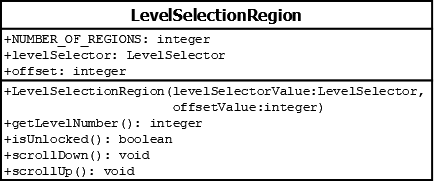
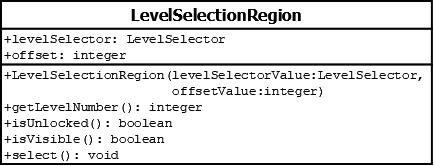
Update Level Selection model with ability to select levels. Also update scrolling implementation.

Changed region(s): [[0.0, 0.0, 1.0, 1.0]]

diff --git a/models/level/selection/LevelSelector.md b/models/level/selection/LevelSelector.md
@@ -9,15 +9,22 @@ Manages the `Level` objects in the context of which one is selected, which ones 
 </center>
 
 ## Attributes
-* **levels** (Level[]): The levels in the game
-* **regionIndex** (integer): the index of the `levels` collection attribute that `LevelRegion` objects should start getting `Level` objects from.
+* **baseIndex** (integer): the index of the `levels` collection attribute that `LevelRegion` objects should start getting `Level` objects from.
+* **levels** (Level[]): The levels in the game.
+* **selectedIndex** (integer): the index of the `levels` collection attribute for the `Level` that the player has selected. If it is `-1`, then no `Level` is selected.
 * **unlockedIndex** (integer): the index of the `levels` collection of the maximum level that the player has unlocked. All levels before that index are also considered to be unlocked. All levels after that index are considered to be locked.
 
 ## Constructors
-* **LevelSelector(levelsValue (Level[]), regionIndexValue (integer), unlockedIndexValue (integer))**: constructs a `LevelSelector` object with the `levels` attribute set to `levelsValue`, and the `regionIndex` attribute set to `regionIndexValue` (which has a default value of `0`), and the `unlockedIndex` attribute set to `unlockedIndexValue` (which has a default value of `0`).
+* **LevelSelector(levelsValue (Level[]), baseIndexValue (integer), selectedIndexValue (integer), unlockedIndexValue (integer))**: constructs a `LevelSelector` object with the `levels` attribute set to `levelsValue`, the `baseIndex` attribute set to `baseIndexValue` (which has a default value of `0`), the `selectedIndex` attribute set to `selectedIndexValue` (which has a default value of `-1`), and the `unlockedIndex` attribute set to `unlockedIndexValue` (which has a default value of `0`).
 
 ## Methods
-* **getRegionIndex()** (integer): returns the value of the `regionIndex` attribute.
-* **getRegionLevelNumber(offset (integer))** (Level): returns `this.levels[this.regionIndex + offset].getNumber()`. The `offset` parameter has a default value of `0`
-* **isRegionLevelUnlocked(offset (integer))** (boolean): returns `true` if `this.regionIndex + offset <= this.unlockedIndex`; else returns `false`.
-* **moveRegionIndex(indexDisplacement (integer))** (void): changes `regionIndex` by the passed in `indexDisplacement` value. If `indexDisplacement` is positive, then `regionIndex` is increased; otherwise it is decreased.
+* **getBaseIndex()** (integer): returns `this.baseIndex`.
+* **getLevelNumber(offset (integer))** (Level): returns `this.levels[this.baseIndex + offset].getNumber()`. The `offset` parameter has a default value of `0`.
+* **getSelectedIndex()** (integer): returns `this.selectedIndex`.
+* **getSelectedLevel()** (Level): returns `this.levels[this.selectedIndex]`; throws an exception if `this.selectedIndex` is out of bounds or is `-1`.
+* **isLevelSelected()**: returns `true` if `this.selectedIndex` is not `-1`; `false` otherwise.
+* **isLevelUnlocked(offset (integer))** (boolean): returns `true` if `this.baseIndex + offset <= this.unlockedIndex`; else returns `false`.
+* **isOffsetValid(offset (integer))** (boolean): returns `true` if `0 <= this.baseIndex + offset < this.levels.length`; else returns `false`.
+* **moveBaseIndex(indexDisplacement (integer))** (void): changes `baseIndex` by the passed in `indexDisplacement` value. If `indexDisplacement` is positive, then `baseIndex` is increased; otherwise it is decreased.
+* **selectIndex(offset (integer))** (void): sets `this.selectedIndex` equal to `this.baseIndex + offset`. The `offset` parameter has a default value of `0`.
+* **unselectIndex()** (void): sets `this.selectedIndex` equal to `-1`.

diff --git a/models/level/selection/LevelSelectionRegion.md b/models/level/selection/LevelSelectionRegion.md
@@ -1,15 +1,12 @@
 # LevelSelectionRegion
 
 ## Summary
-Works with the `LevelSelector` object in order to get the appropriate model values to the `TowerRegionView`. Implements the `TowerRegionModelInterface`
+Works with the `LevelSelector` object in order to get the appropriate model values to the `LevelRegionView`. Implements `LevelRegionInterface`
 
 ## Diagram
 <center>
 !["LevelSelectionRegion UML Diagram"](../../../images/models/level/selection/LevelSelectionRegion.png "LevelSelectionRegion UML Diagram")
 </center>
-
-## Constants
-* **NUMBER_OF_REGIONS** (integer): the number of region objects that are being used in the game. Used for scrolling.
 
 ## Attributes
 * **levelSelector** (LevelSelector): a reference to `LevelSelector` which manages the information about whether the `Level` corresponding to this region is locked and what its number is.
@@ -19,7 +16,7 @@ Works with the `LevelSelector` object in order to get the appropriate model valu
 * **LevelSelectionRegion(levelSelectorValue (LevelSelector), offsetValue (integer))**: constructs a `LevelSelectionRegion` object with the `levelSelector` attribute set to `levelSelectorValue`, and the `offset` attribute set to `offsetValue`.
 
 ## Methods
-* **getLevelNumber()** (integer): returns the level number corresponding to this region. This is computed using `this.levelSelector.getRegionLevelNumber(this.offset)`.
-* **isUnlocked()** (boolean): returns `true` if this region has been unlocked by the player; else returns `false`. This is computed using `this.levelSelector.isRegionLevelUnlocked(this.offset)`.
-* **scrollDown()** (void): Calls `this.levelSelector.moveRegionIndex(-this.NUMBER_OF_REGIONS)` in order to display the previous sequence of `Levels`.
-* **scrollUp()** (void): Calls `this.levelSelector.moveRegionIndex(this.NUMBER_OF_REGIONS)` in order to display the next sequence of `Levels`.
+* **getLevelNumber()** (integer): returns the level number corresponding to this region. This is computed using `this.levelSelector.getLevelNumber(this.offset)`.
+* **isUnlocked()** (boolean): returns `true` if this region has been unlocked by the player; else returns `false`. This is computed using `this.levelSelector.isLevelUnlocked(this.offset)`.
+* **isVisible()** (boolean): returns `true` if `this.levelSelector.isOffsetValid(this.offset)`; else returns `false`.
+* **select()** (void): calls `this.levelSelector.selectIndex(this.offset)` in order to select the `Level` associated with this region.

diff --git a/views/region/TowerRegionView.md b/views/region/TowerRegionView.md
@@ -1,21 +1,21 @@
-# TowerRegionView
+# LevelRegionView
 
 ## Summary
 Represents one of the seven parts of the tower to draw.
 
 ## Diagram
 <center>
-!["TowerRegionView UML Diagram"](../../images/views/region/TowerRegionView.png "TowerRegionView UML Diagram")
+!["LevelRegionView UML Diagram"](../../images/views/region/LevelRegionView.png "LevelRegionView UML Diagram")
 </center>
 
 ## Attributes
-* **model** (TowerRegionModelInterface): the model object to use for determining what the view displays and how it displays things.
-* **background** (TowerRegionViewBackground): the background sprite upon which the button will be drawn.
-* **button** (TowerRegionViewButton): the button associated with selecting a level or scrolling up / down.
-* **buttonText** (TowerRegionViewButtonText): the text to display on the button.
+* **model** (LevelRegionInterface): the model object to use for determining what the view displays and how it displays things.
+* **background** (LevelRegionViewBackground): the background sprite upon which the button will be drawn.
+* **button** (LevelRegionViewButton): the button associated with selecting a level or scrolling up / down.
+* **buttonText** (LevelRegionViewButtonText): the text to display on the button.
 
 ## Constructors
-* **TowerRegionView(model (TowerRegionModelInterface), backgroundValue (TowerRegionViewBackground), buttonValue (TowerRegionViewButton), buttonTextValue (TowerRegionViewButtonText))**: constructs a **TowerRegionView** object with the `model` attribute set to `modelValue`, the `background` attribute set to `backgroundValue`, the `button` attribute set to `buttonValue`, and the `buttonText` attribute set to `buttonTextValue`.
+* **LevelRegionView(model (LevelRegionInterface), backgroundValue (LevelRegionViewBackground), buttonValue (LevelRegionViewButton), buttonTextValue (LevelRegionViewButtonText))**: constructs a **LevelRegionView** object with the `model` attribute set to `modelValue`, the `background` attribute set to `backgroundValue`, the `button` attribute set to `buttonValue`, and the `buttonText` attribute set to `buttonTextValue`.
 
 ## Methods
 * **draw()** (void): draws the background, then draws the button, then draws the button text.

diff --git a/views/region/button-text/TowerRegionViewButtonEmptyText.md b/views/region/button-text/TowerRegionViewButtonEmptyText.md
@@ -1,17 +1,17 @@
-# TowerRegionViewButtonEmptyText
+# LevelRegionViewButtonEmptyText
 
 ## Summary
-Subclasses the TowerRegionViewButtonEmptyText class in order to override the `draw` implementation.
+Subclasses the LevelRegionViewButtonEmptyText class in order to override the `draw` implementation.
 Represents the empty text displayed on the scroll buttons drawn in a tower region.
 That is to say, scroll buttons do not have text so this class does not draw any.
 
 ## Diagram
 <center>
-!["TowerRegionViewButtonEmptyText UML Diagram"](../../../images/views/region/button-text/TowerRegionViewButtonEmptyText.png "TowerRegionViewButtonEmptyText UML Diagram")
+!["LevelRegionViewButtonEmptyText UML Diagram"](../../../images/views/region/button-text/LevelRegionViewButtonEmptyText.png "LevelRegionViewButtonEmptyText UML Diagram")
 </center>
 
 ## Constructors
-* **TowerRegionViewButtonEmptyText()**: constructs a `TowerRegionViewButtonEmptyText` object.
+* **LevelRegionViewButtonEmptyText()**: constructs a `LevelRegionViewButtonEmptyText` object.
 
 ## Methods
-* **draw(model (TowerRegionModelInterface))** (void): overridden to not draw anything.
+* **draw(model (LevelRegionInterface))** (void): overridden to not draw anything.

diff --git a/models/level/selection/LevelScrollRegion.md b/models/level/selection/LevelScrollRegion.md
@@ -1,0 +1,18 @@
+# LevelSelectionRegion
+
+## Summary
+Subclasses `LevelSelectionRegion` in order to reuse most of its code. Implements scroll behaviour in `select()`.
+
+## Diagram
+<center>
+!["LevelScrollRegion UML Diagram"](../../../images/models/level/selection/LevelScrollRegion.png "LevelScrollRegion UML Diagram")
+</center>
+
+## Attributes
+* **scrollAmount** (integer): The amount to move `levelSelector.baseIndex` by when `select()` is called. A positive value indicates that `levelSelector.baseIndex` should be increased; a negative value indicates that `levelSelector.baseIndex` should be decreased.
+
+## Constructors
+* **LevelSelectionRegion(levelSelectorValue (LevelSelector), offsetValue (integer), scrollAmountValue (integer))**: constructs a `LevelScrollRegion` object with the `levelSelector` attribute set to `levelSelectorValue`, the `offset` attribute set to `offsetValue`, and the `scrollAmount` attribute set to `scrollAmountValue`.
+
+## Methods
+* **select()** (void): overridden to implement scroll behaviour. calls `this.levelSelector.moveBaseIndex(this.scrollAmount)` in order to scroll up (or down if `this.scrollAmount` is negative).

diff --git a/views/region/button/TowerRegionViewButton.md b/views/region/button/TowerRegionViewButton.md
@@ -1,4 +1,4 @@
-# TowerRegionViewButton
+# LevelRegionViewButton
 
 ## Summary
 Represents the button drawn in a tower region.
@@ -6,13 +6,13 @@ Represents the button drawn in a tower region.
 
 ## Diagram
 <center>
-!["TowerRegionViewButton UML Diagram"](../../../images/views/region/button/TowerRegionViewButton.png "TowerRegionViewButton UML Diagram")
+!["LevelRegionViewButton UML Diagram"](../../../images/views/region/button/LevelRegionViewButton.png "LevelRegionViewButton UML Diagram")
 </center>
 
 ## Constructors
 * ***This is an abstract class.***
 
 ## Methods
-* **draw(model(TowerRegionModelInterface))** (void): calls `drawUnlocked()` if `model.isUnlocked()` returns true; otherwise calls `drawLocked()`; however if `model.getLevelNumber()` is less than `1` then nothing is drawn.
+* **draw(model(LevelRegionInterface))** (void): calls `drawUnlocked()` if `model.isUnlocked()` returns true; otherwise calls `drawLocked()`; however if `model.getLevelNumber()` is less than `1` then nothing is drawn.
 * **drawLocked()** (void): *(abstract method)* draws a shaded button.
 * **drawUnlocked()** (void): *(abstract method)* draws an unshaded button.

diff --git a/views/region/button/TowerRegionViewScrollDownButton.md b/views/region/button/TowerRegionViewScrollDownButton.md
@@ -1,16 +1,16 @@
-# TowerRegionViewScrollDownButton
+# LevelRegionViewScrollDownButton
 
 ## Summary
-Subclasses the TowerRegionViewButton class in order to override `drawLocked()` and `drawUnlocked()` implementations.
+Subclasses the LevelRegionViewButton class in order to override `drawLocked()` and `drawUnlocked()` implementations.
 Represents a button drawn in a tower region that corresponds to scrolling down in the level selection menu.
 
 ## Diagram
 <center>
-!["TowerRegionViewScrollDownButton UML Diagram"](../../../images/views/region/button/TowerRegionViewScrollDownButton.png "TowerRegionViewScrollDownButton UML Diagram")
+!["LevelRegionViewScrollDownButton UML Diagram"](../../../images/views/region/button/LevelRegionViewScrollDownButton.png "LevelRegionViewScrollDownButton UML Diagram")
 </center>
 
 ## Constructors
-* **TowerRegionViewScrollDownButton()**: constructs a `TowerRegionViewScrollDownButton` object.
+* **LevelRegionViewScrollDownButton()**: constructs a `LevelRegionViewScrollDownButton` object.
 
 ## Methods
 * **drawLocked()** (void): overridden to draw a shaded down arrow button.

diff --git a/views/region/button/TowerRegionViewScrollUpButton.md b/views/region/button/TowerRegionViewScrollUpButton.md
@@ -1,16 +1,16 @@
-# TowerRegionViewScrollUpButton
+# LevelRegionViewScrollUpButton
 
 ## Summary
-Subclasses the TowerRegionViewButton class in order to override `drawLocked()` and `drawUnlocked()` implementations.
+Subclasses the LevelRegionViewButton class in order to override `drawLocked()` and `drawUnlocked()` implementations.
 Represents a button drawn in a tower region that corresponds to scrolling up in the level selection menu.
 
 ## Diagram
 <center>
-!["TowerRegionViewScrollUpButton UML Diagram"](../../../images/views/region/button/TowerRegionViewScrollUpButton.png "TowerRegionViewScrollUpButton UML Diagram")
+!["LevelRegionViewScrollUpButton UML Diagram"](../../../images/views/region/button/LevelRegionViewScrollUpButton.png "LevelRegionViewScrollUpButton UML Diagram")
 </center>
 
 ## Constructors
-* **TowerRegionViewScrollUpButton()**: constructs a `TowerRegionViewScrollUpButton` object.
+* **LevelRegionViewScrollUpButton()**: constructs a `LevelRegionViewScrollUpButton` object.
 
 ## Methods
 * **drawLocked()** (void): overridden to draw a shaded up arrow button.

diff --git a/views/region/TowerRegionViewBackground.md b/views/region/TowerRegionViewBackground.md
@@ -1,17 +1,17 @@
-# TowerRegionViewBackground
+# LevelRegionViewBackground
 
 ## Summary
 Represents the shaded or unshaded area drawn behind tower buttons.
 
 ## Diagram
 <center>
-!["TowerRegionViewBackground UML Diagram"](../../images/views/region/TowerRegionViewBackground.png "TowerRegionViewBackground UML Diagram")
+!["LevelRegionViewBackground UML Diagram"](../../images/views/region/LevelRegionViewBackground.png "LevelRegionViewBackground UML Diagram")
 </center>
 
 ## Constructors
-* **TowerRegionBackgroundView()**: constructs a `TowerRegionBackgroundView` object.
+* **LevelRegionBackgroundView()**: constructs a `LevelRegionBackgroundView` object.
 
 ## Methods
-* **draw(model (TowerRegionModelInterface))** (void): if `model.isUnlocked()` returns `true` then calls `drawUnlocked()`; else calls `drawLocked()`
+* **draw(model (LevelRegionInterface))** (void): if `model.isUnlocked()` returns `true` then calls `drawUnlocked()`; else calls `drawLocked()`
 * **drawLocked()** (void): draws a shaded background.
 * **drawUnlocked()** (void): draws an unshaded background.

diff --git a/views/region/button/TowerRegionViewLevelButton.md b/views/region/button/TowerRegionViewLevelButton.md
@@ -1,16 +1,16 @@
-# TowerRegionViewLevelButton
+# LevelRegionViewLevelButton
 
 ## Summary
-Subclasses the TowerRegionViewButton class in order to override `drawLocked()` and `drawUnlocked()` implementations.
+Subclasses the LevelRegionViewButton class in order to override `drawLocked()` and `drawUnlocked()` implementations.
 Represents a button drawn in a tower region that corresponds to selecting a level.
 
 ## Diagram
 <center>
-!["TowerRegionViewLevelButton UML Diagram"](../../../images/views/region/button/TowerRegionViewLevelButton.png "TowerRegionViewLevelButton UML Diagram")
+!["LevelRegionViewLevelButton UML Diagram"](../../../images/views/region/button/LevelRegionViewLevelButton.png "LevelRegionViewLevelButton UML Diagram")
 </center>
 
 ## Constructors
-* **TowerRegionViewLevelButton()**: constructs a `TowerRegionViewLevelButton` object.
+* **LevelRegionViewLevelButton()**: constructs a `LevelRegionViewLevelButton` object.
 
 ## Methods
 * **drawLocked()** (void): overridden to draw a rectangular shaded button.

diff --git a/views/region/button-text/TowerRegionViewButtonText.md b/views/region/button-text/TowerRegionViewButtonText.md
@@ -1,15 +1,15 @@
-# TowerRegionViewButtonText
+# LevelRegionViewButtonText
 
 ## Summary
 Represents the text displayed on the button drawn in a tower region.
 
 ## Diagram
 <center>
-!["TowerRegionViewButtonText UML Diagram"](../../../images/views/region/button-text/TowerRegionViewButtonText.png "TowerRegionViewButtonText UML Diagram")
+!["LevelRegionViewButtonText UML Diagram"](../../../images/views/region/button-text/LevelRegionViewButtonText.png "LevelRegionViewButtonText UML Diagram")
 </center>
 
 ## Constructors
-* **TowerRegionViewButtonText()**: constructs a `TowerRegionViewButtonText` object.
+* **LevelRegionViewButtonText()**: constructs a `LevelRegionViewButtonText` object.
 
 ## Methods
-* **draw(model (TowerRegionModelInterface))** (void): draws "Level {0}" where {0} is `model.getLevelNumber()` in string form.
+* **draw(model (LevelRegionInterface))** (void): draws "Level {0}" where {0} is `model.getLevelNumber()` in string form.

diff --git a/models/level/selection/LevelRegionInterface.md b/models/level/selection/LevelRegionInterface.md
@@ -1,0 +1,16 @@
+# LevelRegionInterface
+
+## Summary
+Hides the information about the model except for that needed by the LevelRegionView.
+***This is an interface.***
+
+## Diagram
+<center>
+!["LevelRegionInterface UML Diagram"](../../../images/models/level/selection/LevelRegionInterface.png "LevelRegionInterface UML Diagram")
+</center>
+
+## Methods
+* **getLevelNumber()** (integer): returns the level number corresponding to this region.
+* **isUnlocked()** (boolean): returns `true` if this region has been unlocked by the player; else returns `false`.
+* **isVisible()** (boolean): returns `true` if this region's button should be displayed in the UI; else returns `false`.
+* **select()** (void): the operation to perform when the region's button is clicked.
